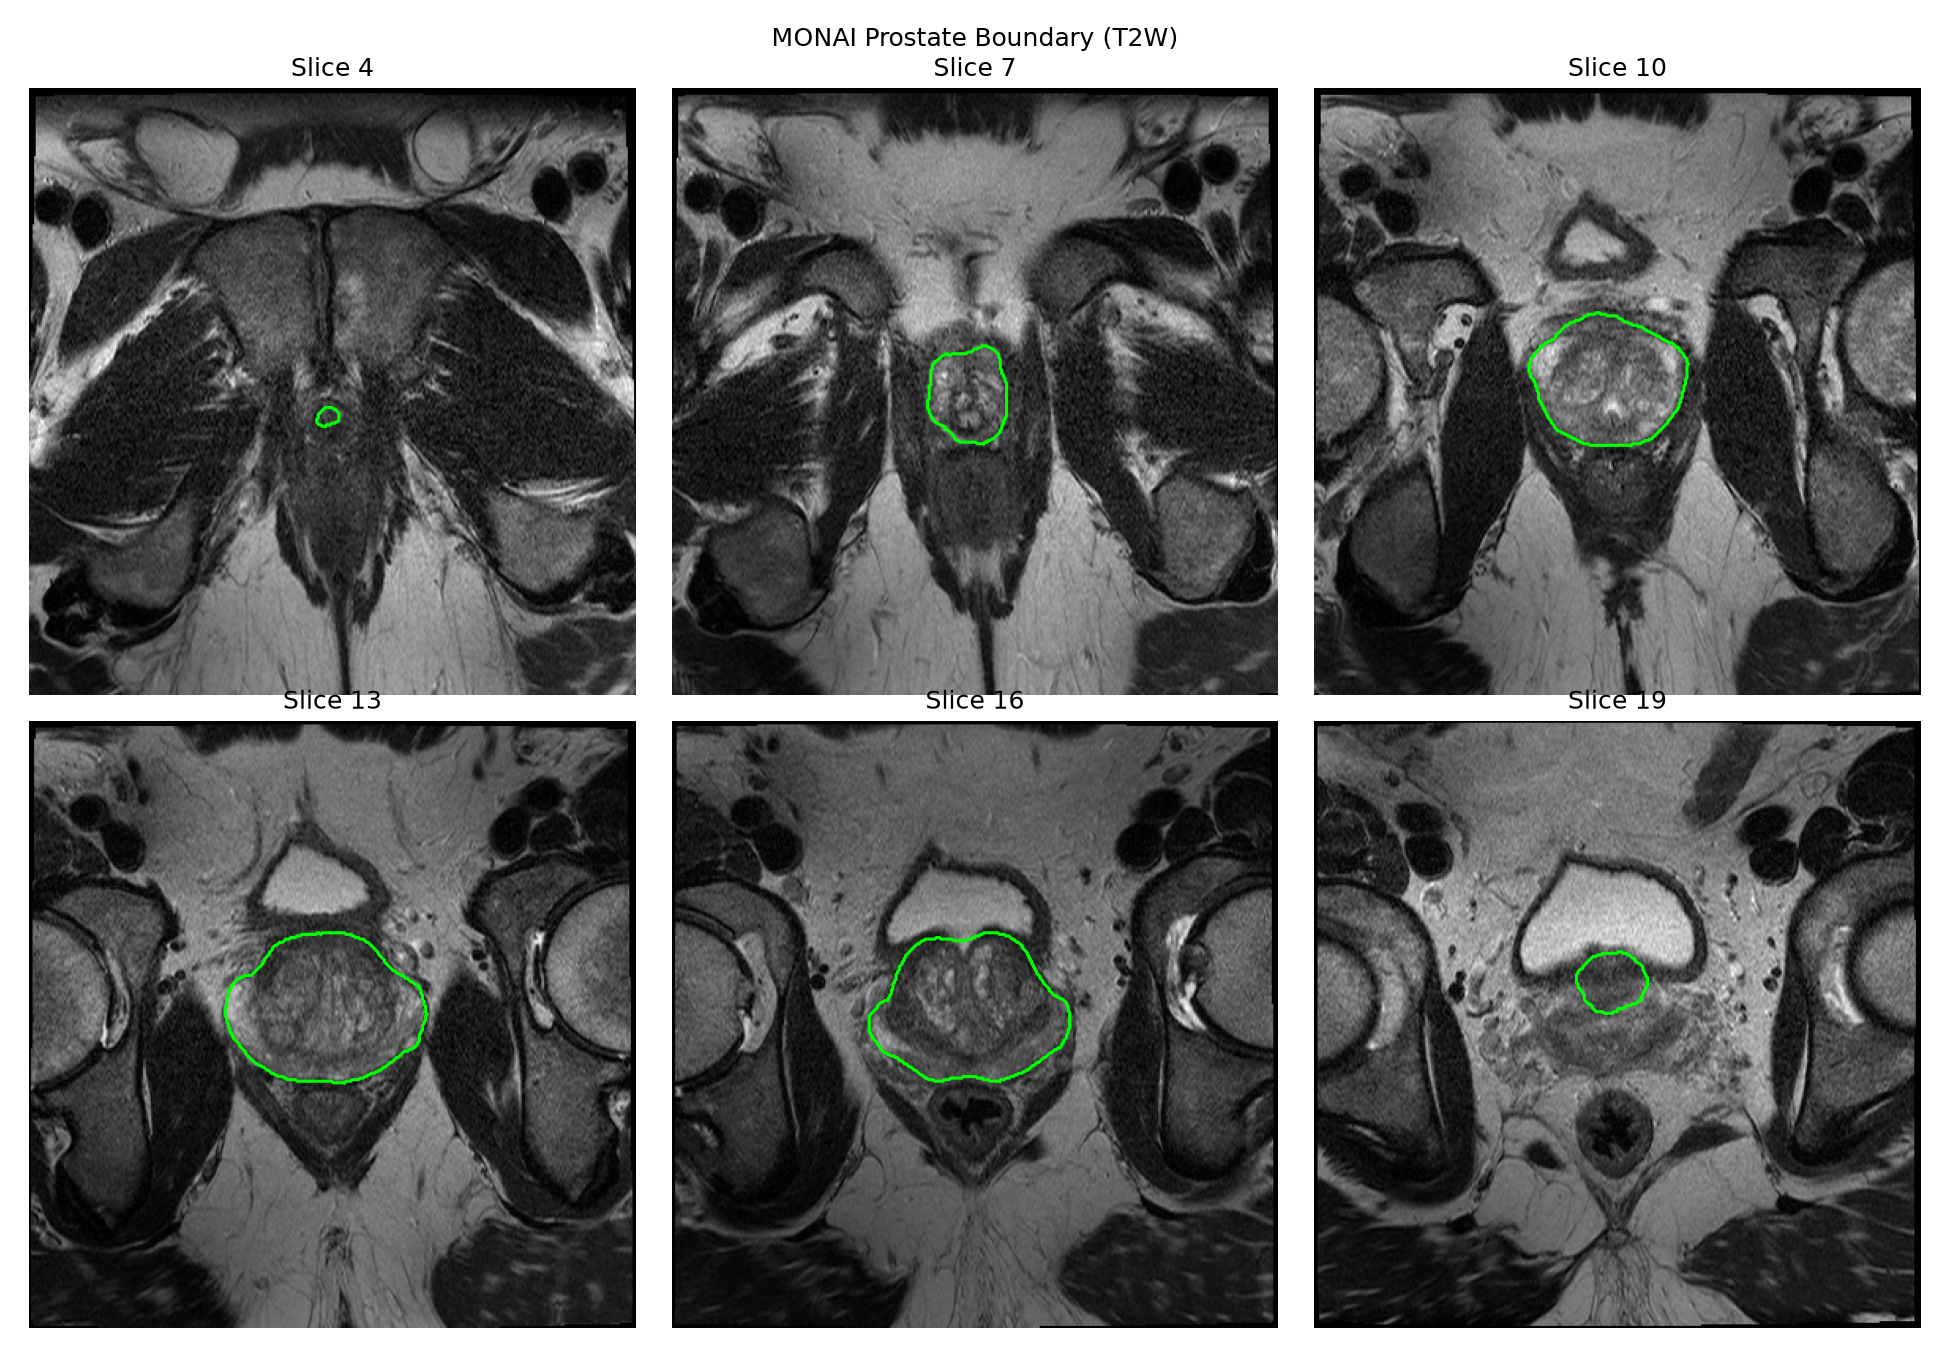
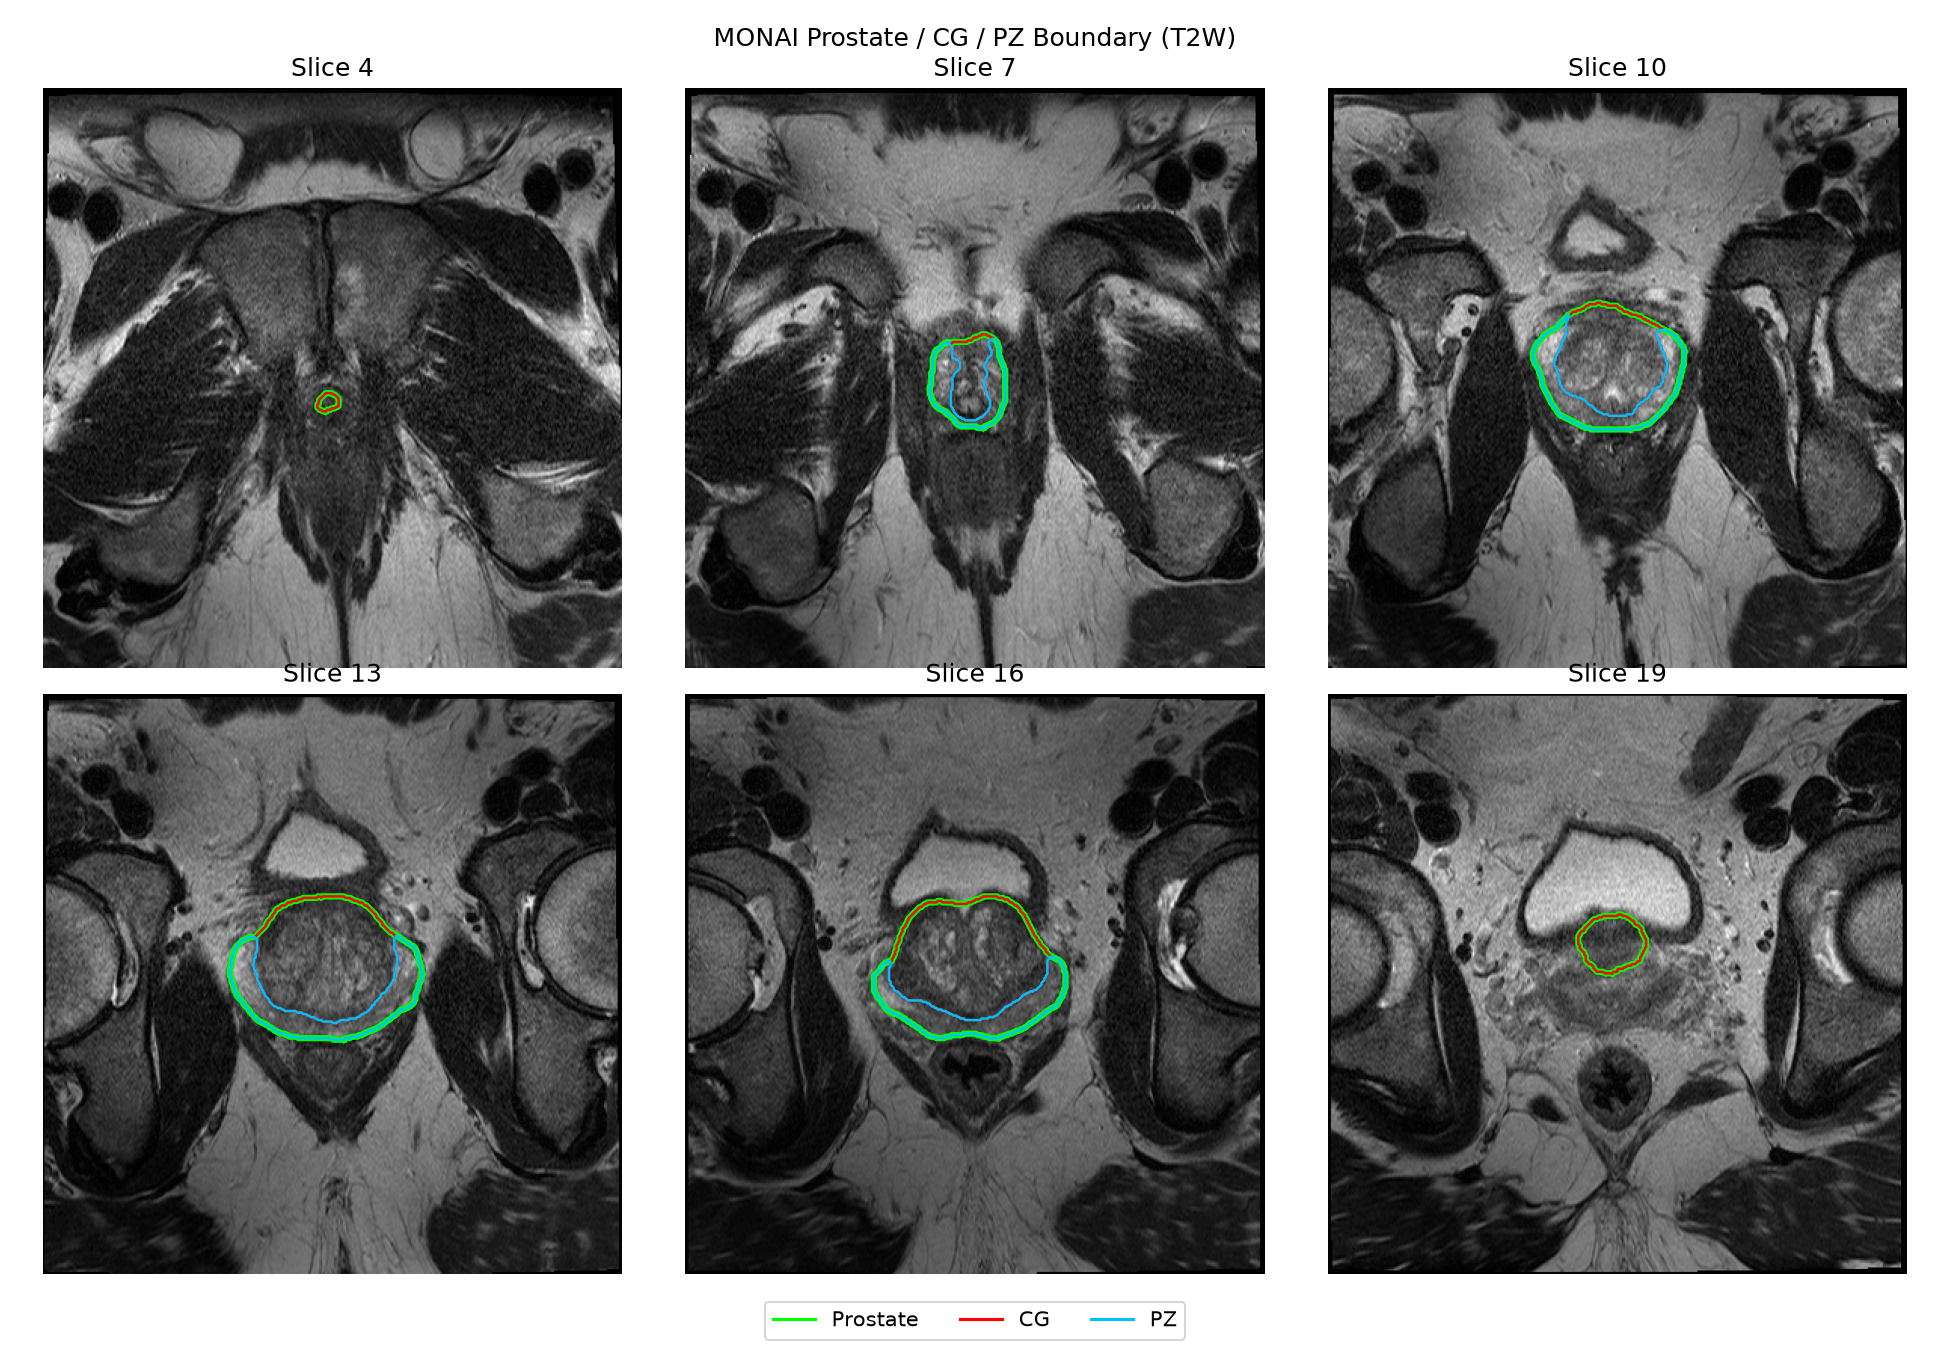
Enhance prostate segmentation pipeline: add output masks for CG and PZ, update visualization

diff --git a/HF_monai_prostate_pipeline.py b/HF_monai_prostate_pipeline.py
@@ -21,12 +21,17 @@ device = torch.device("cuda" if torch.cuda.is_available() else "cpu")
 print(f"正在使用的计算设备: {device.type.upper()}")
 
 # 2. 输入的 T2W 轴位前列腺 MRI（.nii.gz）
-mri_path = "601_MR_AXT2.nii.gz"
+mri_path = "601_MR_AXT2.nii.gz" # 8_MR_t2_tse_trasfov.nii.gz
 if not os.path.exists(mri_path):
     raise FileNotFoundError(f"未找到 MRI 数据: {mri_path}")
+# 输出文件以输入文件名为前缀，例如 601_MR_AXT2.nii.gz -> 601_MR_AXT2_cg_mask.nii.gz
+out_prefix = os.path.basename(mri_path).removesuffix(".gz").removesuffix(".nii")
+# 导出的 .nii.gz 掩膜统一放到 output 文件夹
+output_dir = "output"
+os.makedirs(output_dir, exist_ok=True)
 
 # 3. 从 Hugging Face 的 MONAI 官方仓库下载前列腺解剖分割 Bundle 模型
-# 该模型输出 背景(0) / 中央腺体CG(1) / 外周带PZ(2)，这里将 CG+PZ 合并为整个前列腺
+# 该模型输出 背景(0) / 中央腺体CG(1) / 外周带PZ(2)，这里同时输出 CG、PZ 及二者合并的整个前列腺
 model_name = "prostate_mri_anatomy"
 model_dir = "./models"
 bundle_root = os.path.join(model_dir, model_name)
@@ -83,10 +88,13 @@ with torch.no_grad(), torch.autocast(device_type=device.type, enabled=device.typ
     )
     probs = torch.softmax(logits.float(), dim=1)
 
-# 7. 整个前列腺的概率 = 1 - 背景概率，反变换回原始图像空间后再二值化，边界更平滑
-data["pred"] = 1.0 - probs[0, :1].cpu()
+# 7. 将 CG/PZ 两通道概率反变换回原始图像空间后再二值化，边界更平滑
+# （不反变换背景通道：裁剪的逆变换会在裁剪区外补 0，背景概率为 0 会被误判为前列腺）
+data["pred"] = probs[0, 1:].cpu()
 data = Invertd(keys="pred", transform=preprocessing, orig_keys="image", nearest_interp=False)(data)
-mask = (data["pred"] > 0.5).to(torch.uint8)
+probs_orig = data["pred"]  # [0]=CG, [1]=PZ
+# 整个前列腺的概率 = CG 概率 + PZ 概率（即 1 - 背景概率）
+mask = (probs_orig.sum(dim=0, keepdim=True) > 0.5).to(torch.uint8)
 mask = KeepLargestConnectedComponent()(mask)  # 去除假阳性碎块
 mask = FillHoles()(mask)                      # 填补腺体内部空洞
 mask = mask[0].numpy().astype(np.uint8)
@@ -102,20 +110,34 @@ for z in range(mask.shape[-1]):
     mask[..., z] = ndimage.binary_fill_holes(mask[..., z]).astype(np.uint8)  # 填补该层内的空洞
 mask = np.moveaxis(mask, -1, axial_axis)
 
+# 在整个前列腺掩膜内按 CG / PZ 概率大小划分分区，保证 CG ∪ PZ 与整个前列腺完全一致
+probs_np = probs_orig.numpy()
+cg = ((probs_np[0] >= probs_np[1]) & (mask > 0)).astype(np.uint8)
+if cg.any():
+    cg = KeepLargestConnectedComponent()(cg[None])[0].numpy().astype(np.uint8)  # CG 是单一实体，碎块归入 PZ
+    cg = ndimage.binary_fill_holes(cg).astype(np.uint8)  # CG 内部的孤立 PZ 体素归回 CG
+pz = ((mask > 0) & (cg == 0)).astype(np.uint8)
+zones = (cg * 1 + pz * 2).astype(np.uint8)  # 0=背景, 1=CG, 2=PZ
+
 voxel_ml = np.prod(orig_img.header.get_zooms()[:3]) / 1000.0
-print(f"分割完成！前列腺体积约 {mask.sum() * voxel_ml:.1f} mL")
+print(f"分割完成！前列腺体积约 {mask.sum() * voxel_ml:.1f} mL "
+      f"(CG {cg.sum() * voxel_ml:.1f} mL, PZ {pz.sum() * voxel_ml:.1f} mL)")
 
-# 8. 保存前列腺掩膜（与原始 MRI 相同的空间和 affine，可在 ITK-SNAP / 3D Slicer 中叠加查看）
-out_mask_path = "601_MR_AXT2_prostate_mask.nii.gz"
-nib.save(nib.Nifti1Image(mask, orig_img.affine), out_mask_path)
-print(f"前列腺掩膜已保存至: {out_mask_path}")
+# 8. 保存掩膜（与原始 MRI 相同的空间和 affine，可在 ITK-SNAP / 3D Slicer 中叠加查看）
+for name, arr in [("prostate_mask", mask), ("cg_mask", cg), ("pz_mask", pz), ("zones", zones)]:
+    out_path = os.path.join(output_dir, f"{out_prefix}_{name}.nii.gz")
+    nib.save(nib.Nifti1Image(arr, orig_img.affine), out_path)
+    print(f"掩膜已保存至: {out_path}")
 
-# 9. 可视化：在包含前列腺的轴位切片上绘制前列腺边界轮廓
+# 9. 可视化：在包含前列腺的轴位切片上绘制整个前列腺、CG、PZ 的边界轮廓
 # 统一转到 LPS 方向，使 slice.T 显示为放射学视图（前方朝上、患者右侧在图像左侧）
 to_lps = nib.orientations.ornt_transform(
     nib.orientations.io_orientation(orig_img.affine), nib.orientations.axcodes2ornt(("L", "P", "S")))
 image_lps = nib.orientations.apply_orientation(orig_img.get_fdata(), to_lps)
 mask_lps = nib.orientations.apply_orientation(mask, to_lps)
+cg_lps = nib.orientations.apply_orientation(cg, to_lps)
+pz_lps = nib.orientations.apply_orientation(pz, to_lps)
+contour_styles = [(mask_lps, "lime", "Prostate", 3.0), (cg_lps, "red", "CG", 1.2), (pz_lps, "deepskyblue", "PZ", 1.2)]
 
 slices = np.where(mask_lps.any(axis=(0, 1)))[0]
 if len(slices) == 0:
@@ -127,10 +149,13 @@ else:
         ax.axis("off")
     for ax, z in zip(axes.flat, show):
         ax.imshow(image_lps[:, :, z].T, cmap="gray")
-        for contour in measure.find_contours(mask_lps[:, :, z].T.astype(float), 0.5):
-            ax.plot(contour[:, 1], contour[:, 0], color="lime", linewidth=1.5)
+        for arr, color, _, lw in contour_styles:
+            for contour in measure.find_contours(arr[:, :, z].T.astype(float), 0.5):
+                ax.plot(contour[:, 1], contour[:, 0], color=color, linewidth=lw)
         ax.set_title(f"Slice {z}")
-    fig.suptitle("MONAI Prostate Boundary (T2W)")
-    plt.tight_layout()
-    plt.savefig("601_MR_AXT2_prostate_boundary.png", dpi=150)
+    fig.legend(handles=[plt.Line2D([], [], color=c, label=l) for _, c, l, _ in contour_styles],
+               loc="lower center", ncol=3)
+    fig.suptitle("MONAI Prostate / CG / PZ Boundary (T2W)")
+    plt.tight_layout(rect=(0, 0.04, 1, 1))
+    plt.savefig(f"{out_prefix}_prostate_boundary.png", dpi=150)
     plt.show()
